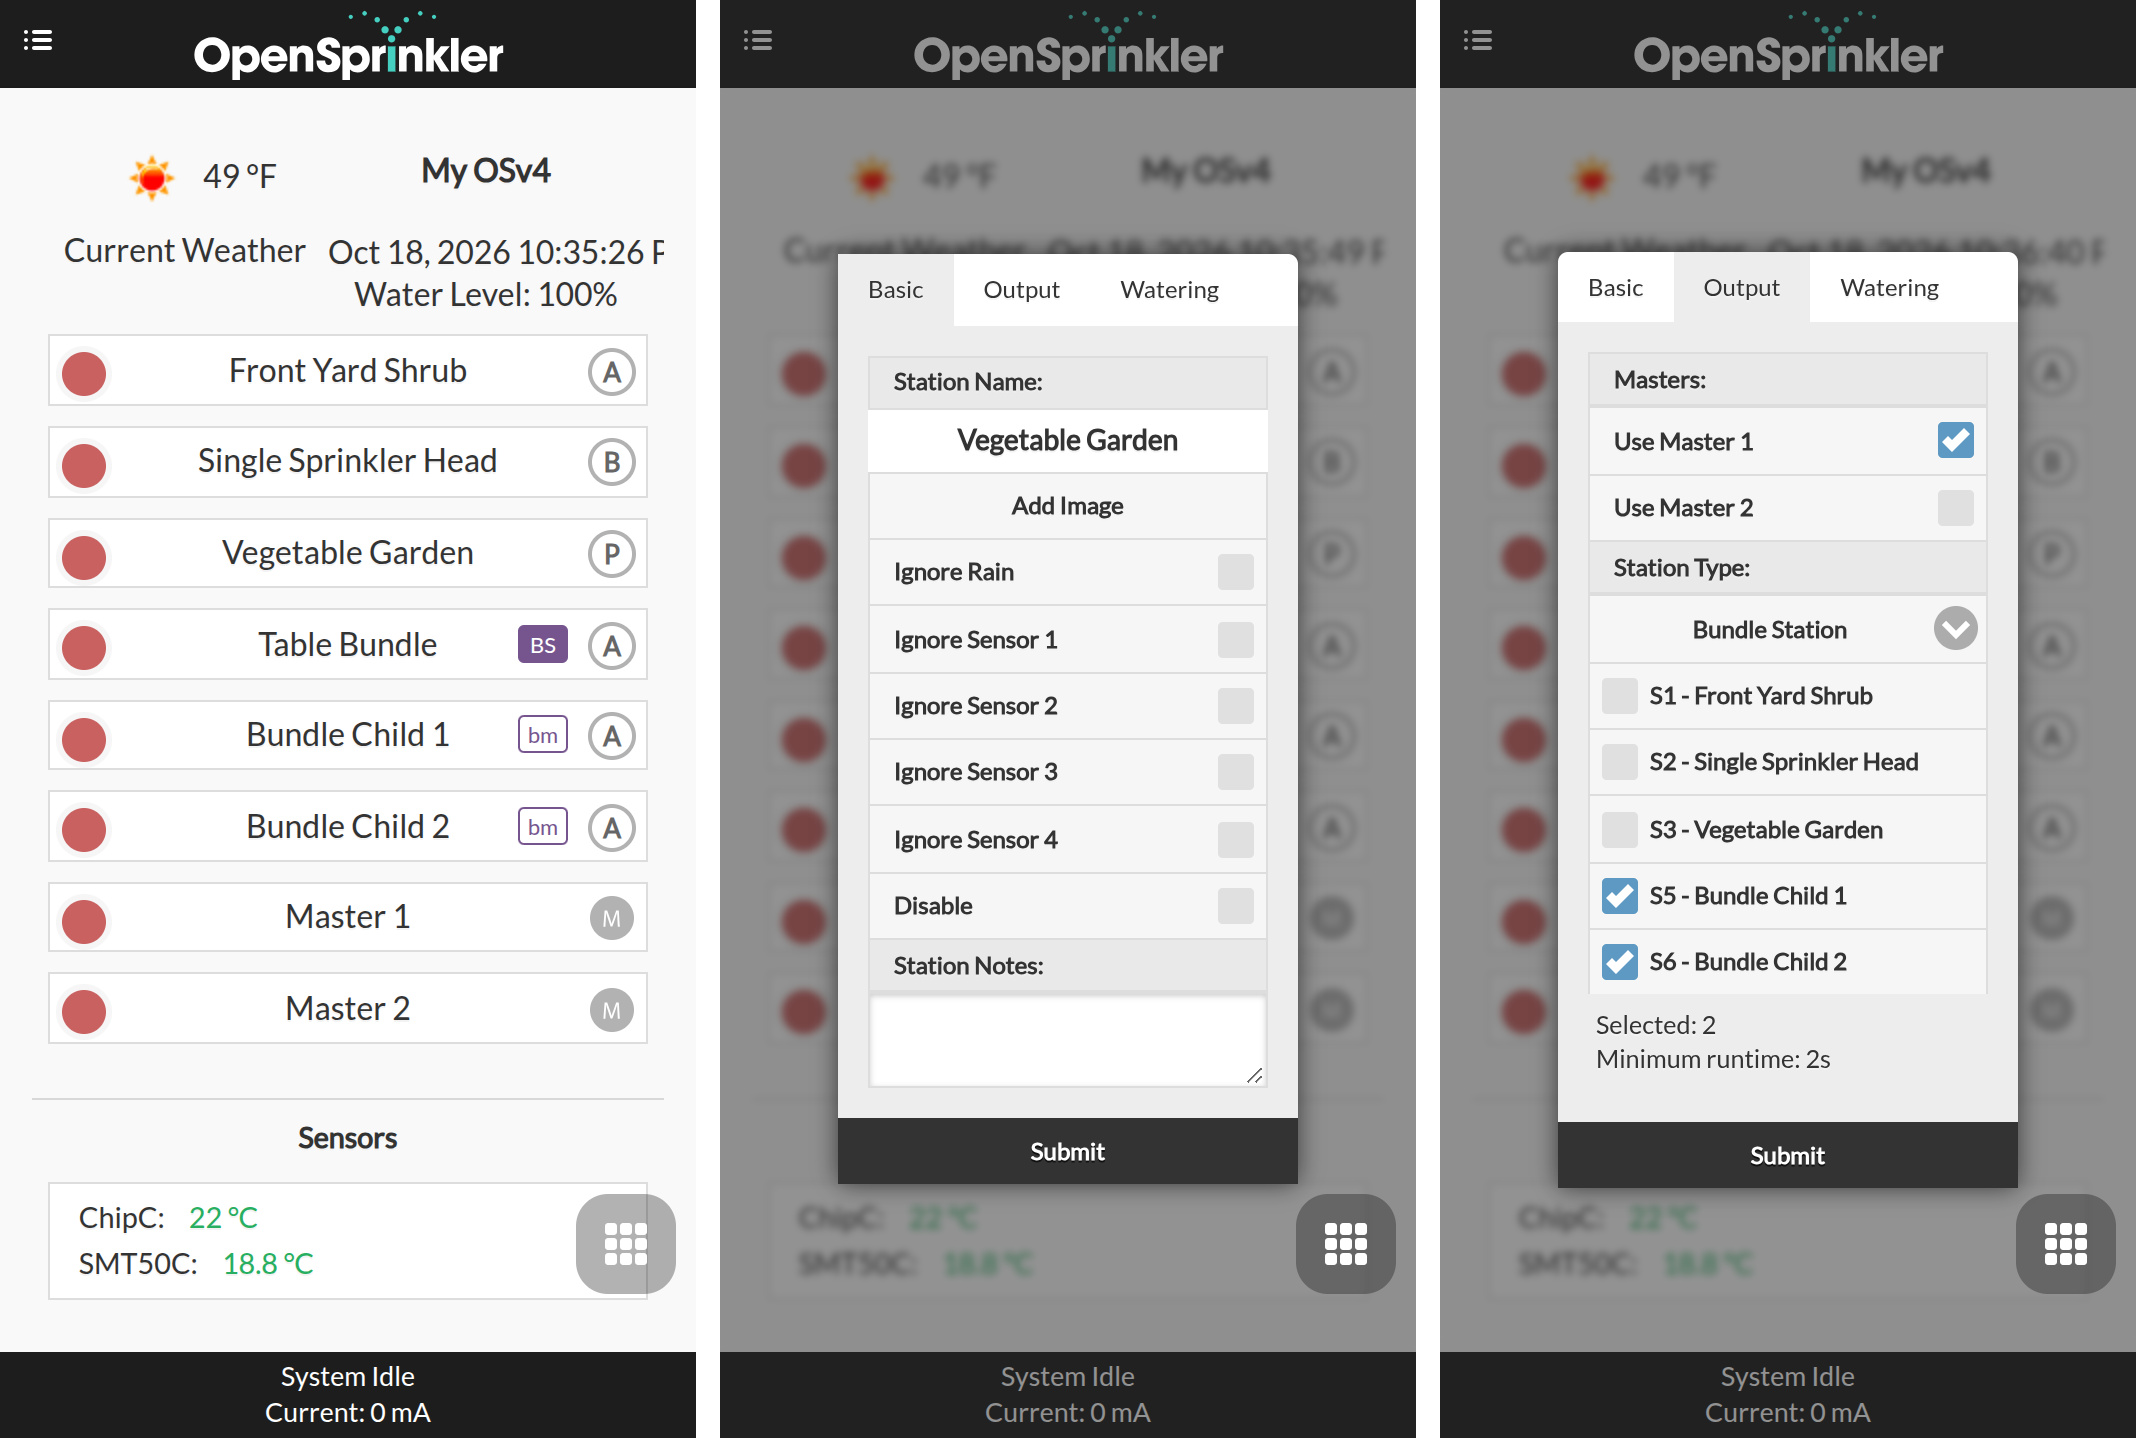
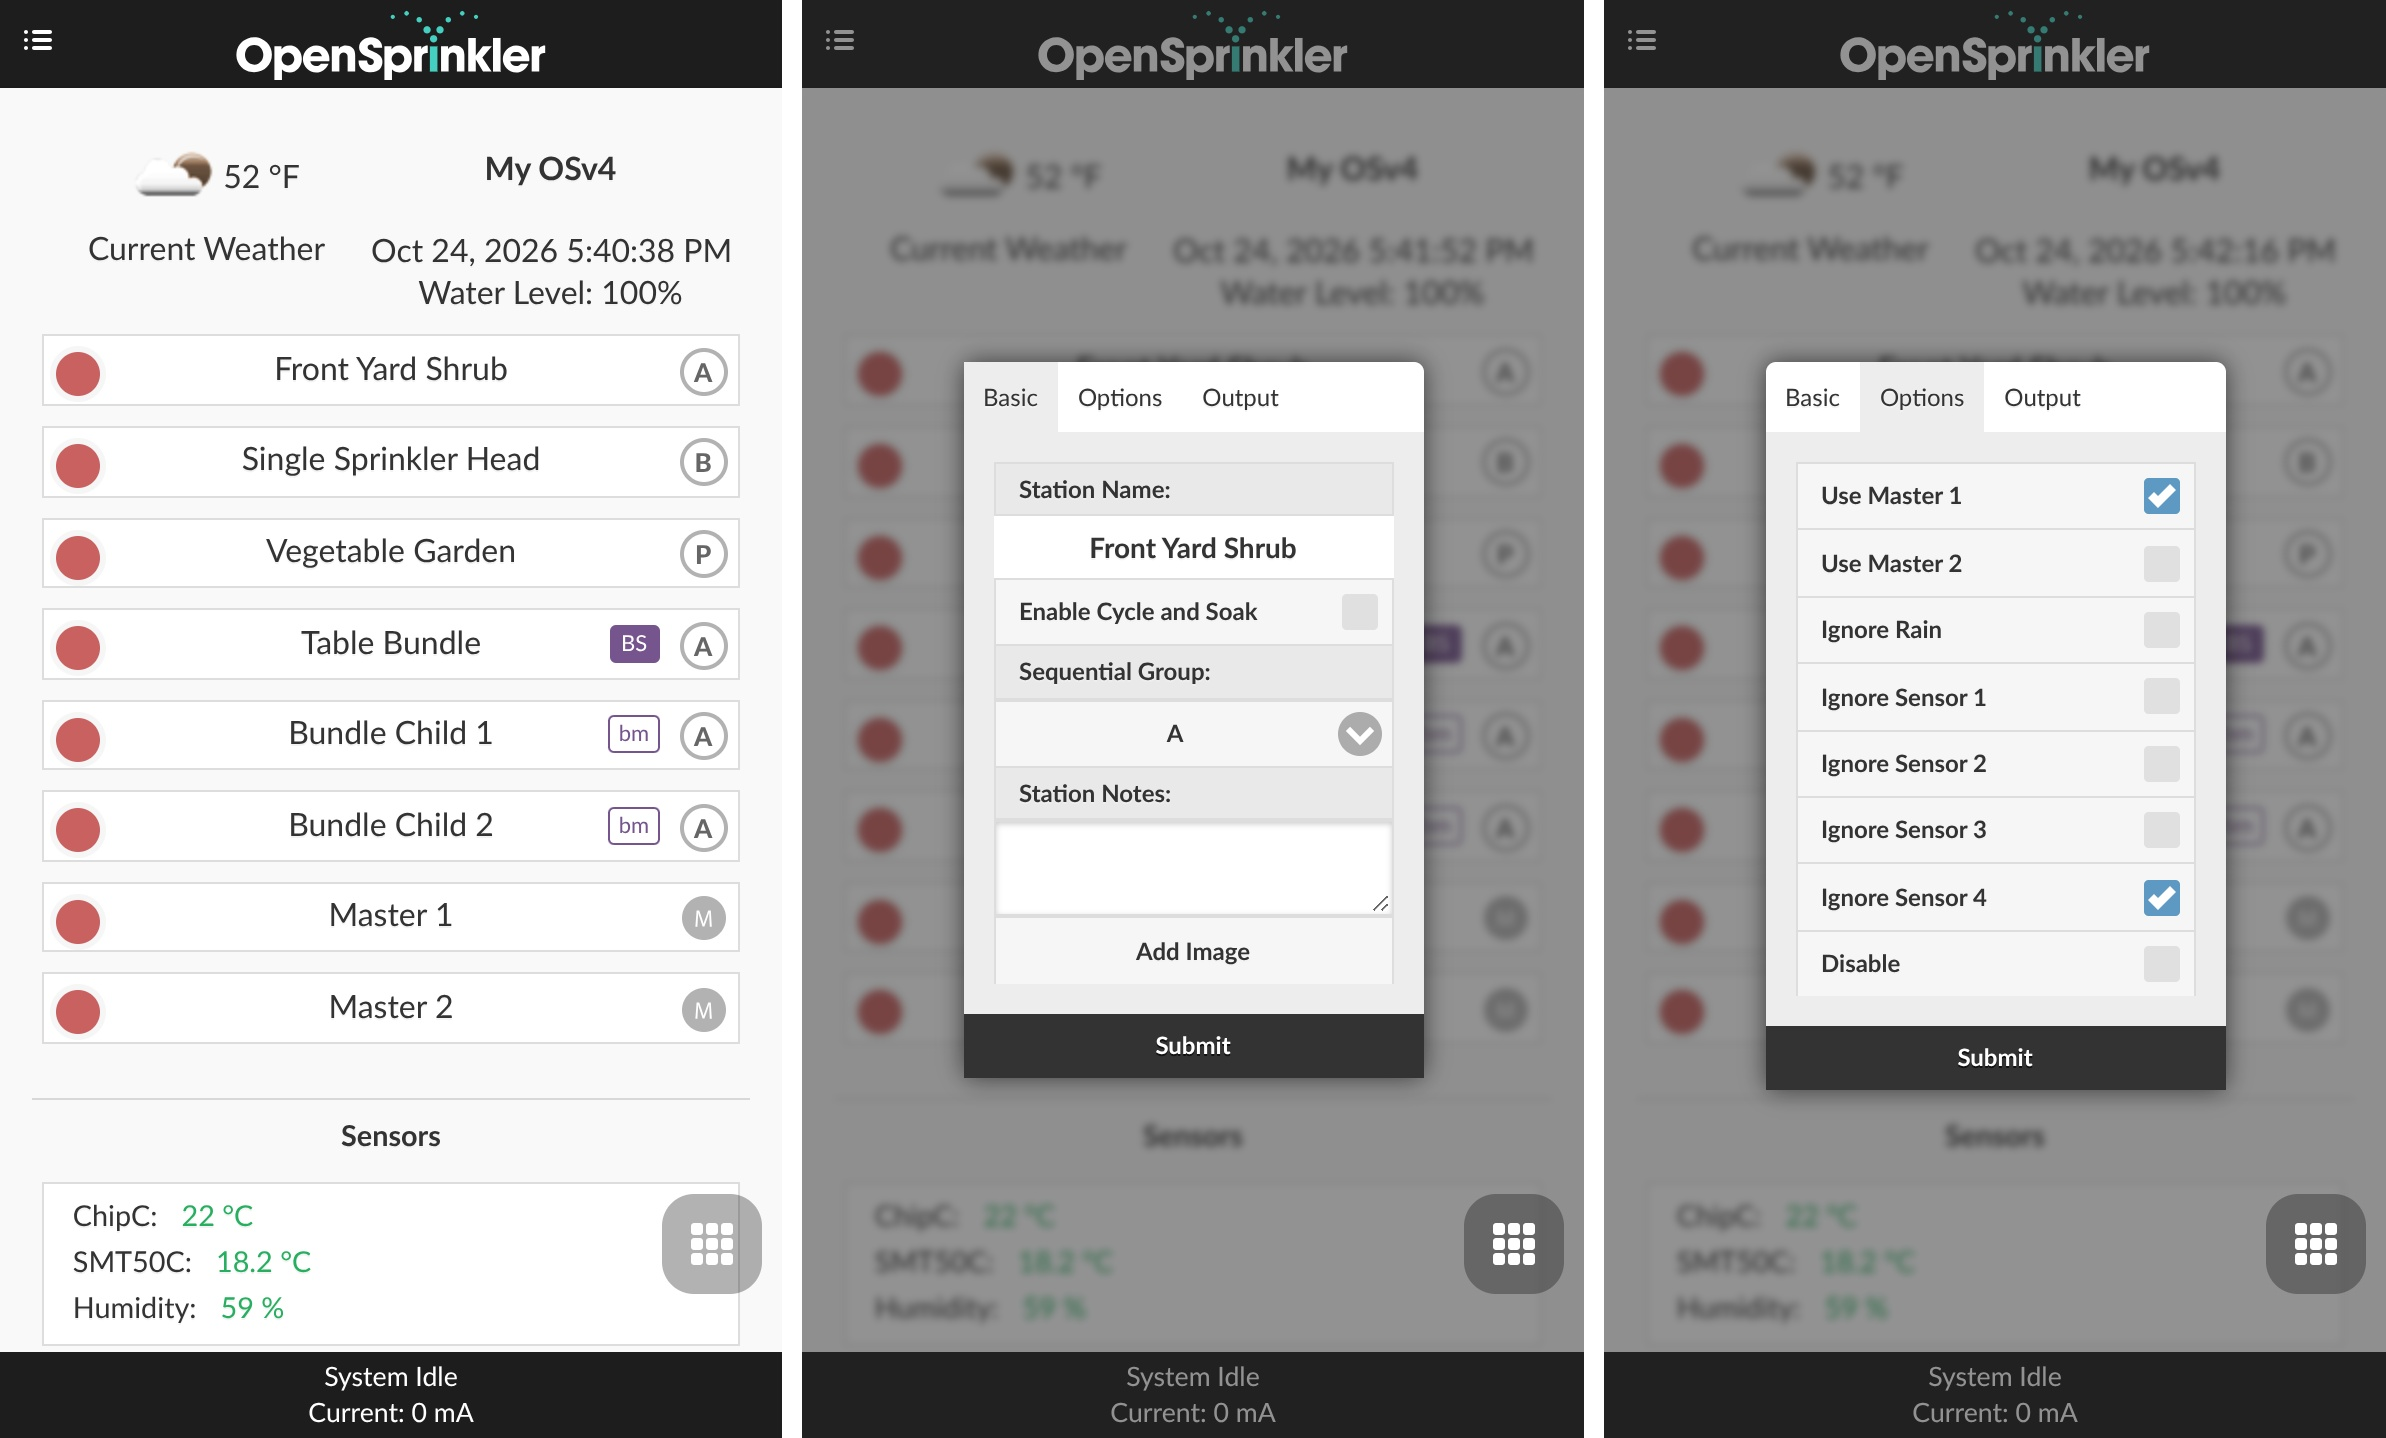
update hostname guidance and station attribute screenshots

diff --git a/docs/docs/2.2.1/221_7_manual.md b/docs/docs/2.2.1/221_7_manual.md
@@ -266,7 +266,7 @@ OpenSprinkler’s web interface works on phones, tablets, and computers, enablin
 * <span class="hl">The default device password is **opendoor**</span>. For security, change it upon first use.
 * When using the OpenSprinkler mobile app, choose **Manually Add a Device**. Type in a custom name, and enter the device IP and password.
 * Using the IP to access the controller works as long as you are on the same local network.
-* On **OpenSprinkler v3 and v4**, set a custom **hostname** under **Edit Options → Network → Hostname**, such as `garden-os`. You can then access the controller at `http://garden-os` instead of using its IP address.
+* On **OpenSprinkler v3 and v4**, set a custom **hostname** under **Edit Options → Network → Hostname**, such as `garden-os`. You can then access the controller at `http://garden-os` instead of using its IP address. Some routers require the `.lan` suffix, for example `http://garden-os.lan/`.
 
 ---
 
@@ -332,19 +332,28 @@ The footer may also display:
 
 Each zone (station) is shown as a card. Tap the circular icon showing the station's sequential group next to its name to open its **Attributes** dialog.
 
-![Station cards and the Basic and Output attribute tabs](images/station_attributes_types_2217.jpg){: .img-shadow}
+![Station cards and the Basic and Options attribute tabs](images/station_attributes_types_2217.jpg){: .img-shadow}
 
 **Basic Tab:**
 
 * **Station Name:** A custom name (up to 32 characters).<br>
 **Annotation:** If a flow sensor is enabled (see [Sensor Setup](#built-in-sensors)) and the last 5 characters represent a numerical value, a **Flow Alert** notification will trigger when the flow rate exceeds this value after the zone finishes. Example: station name is **Front Yard 1.357**, a flow alert will trigger if the flow rate `>1.357` after the zone finishes.
+* **Cycle and Soak:** Enable cycling and set the **Maximum cycle** and **Minimum soak**, in minutes. See [Cycle and Soak](#cycle-and-soak) below.
+* **Sequential Group:** Assign the zone to a **Sequential** group (`A-D`) or the **Parallel** (`P`) group. The zone's group label appears next to its name on the homepage.
+    * By default, all zones belong to **group A**.
+    * Zones in the same sequential group run in sequence; zones in different groups can run simultaneously.
+    * Parallel (P) zones can run alongside any other zones.
+* **Station Notes & Image:** Add station notes and a photo (see [Cloud-Synced Features](#cloud-synced-features)).
+
+**Options Tab:**
+
+* **Use Masters:** Select which configured Masters should activate when this zone runs. If Master 1 is configured, Use Master 1 is checked by default; additional masters are unchecked by default.
+* **Activate Relay:** Activate the controller's relay when this zone runs (if supported).
 * **Ignore Rain/SN1-SN4:** Each option lets the zone bypass rain delay or the corresponding built-in sensor. Unchecked by default. (*SN3/SN4 are available only on OpenSprinkler v3.4 and v4*).
 * **Disable:** Disable and hide this zone. To unhide, use the [Footer Menu](#footer-menu).
-* **Image & Notes:** Add a station photo and notes (see [Cloud-Synced Features](#cloud-synced-features)).
 
 **Output Tab:**
 
-* **Use Masters:** Select which configured Masters should activate when this zone runs. If Master 1 is configured, Use Master 1 is checked by default; additional masters are unchecked by default.
 * <span id="station-type"></span>**Station Type:** Configure special properties for a zone.
     * <span class="hllight">**Standard**</span> (default): Regular sprinkler zone.
     * <span class="hllight">**RF:**</span> Controls remote RF (Radio Frequency) power sockets via an external transmitter (requires [RFToy](https://opensprinkler.com/product/rftoy/) for code learning), allowing you to switch powerline devices such as Christmas lights, heaters, pumps.
@@ -367,17 +376,11 @@ Each zone (station) is shown as a card. Tap the circular icon showing the statio
     * **SP:** Fallback for an unrecognized special-station type
     * **No badge:** Standard station (neither a special station nor a bundle member)
 
-**Watering Tab:**
-
-* **Sequential Group:** Assign the zone to a **Sequential** group (`A-D`) or the **Parallel** (`P`) group. The zone's group label appears next to its name on the homepage.
-    * By default, all zones belong to **group A**.
-    * Zones in the same sequential group run in sequence; zones in different groups can run simultaneously.
-    * Parallel (P) zones can run alongside any other zones.
-* **Cycle and Soak:** Enable cycling and set the **Maximum cycle** and **Minimum soak**, in minutes. See [Cycle and Soak](#cycle-and-soak) below.
-
 <hr>
 
 #### Bundle Stations
+
+![Bundle Station configuration in the Output tab](images/bundle_station_2217.jpg){ .img-center .img-shadow width="250" }
 
 A **Bundle Station** behaves like several physical zone wires bundled together into one logical zone. Starting the bundle leader activates its own output and every selected member in its configuration.
 
@@ -396,9 +399,9 @@ To reduce simultaneous solenoid inrush current, new physical outputs are activat
 
 #### Cycle and Soak {: .hltitle}
 
-![Cycle and Soak settings in the Watering tab and circular-arrow indicators on station cards](images/cycle_and_soak_2217.jpg){ .img-center .img-shadow .img-two-thirds }
+![Cycle and Soak settings in the Basic tab and circular-arrow indicators on station cards](images/cycle_and_soak_2217.jpg){ .img-center .img-shadow .img-two-thirds }
 
-**Cycle and Soak** splits a zone's water time into balanced cycles, each no longer than its **Maximum cycle**, separated by at least its **Minimum soak**. For example, 17 minutes total with a 5-minute maximum cycle becomes 4 cycles, each 4 minutes 15 seconds. Both settings accept **1–240 minutes**. You can enable it for each station individually via its **Watering** tab. Enabled zones show a circular arrow around their group indicator on the homepage (see the right image above).
+**Cycle and Soak** splits a zone's water time into balanced cycles, each no longer than its **Maximum cycle**, separated by at least its **Minimum soak**. For example, 17 minutes total with a 5-minute maximum cycle becomes 4 cycles, each 4 minutes 15 seconds. Both settings accept **1–240 minutes**. You can enable it for each station individually via its **Basic** tab. Enabled zones show a circular arrow around their group indicator on the homepage (see the right image above).
 
 
 * Other zones can run during a soak. Scheduling may make the gap longer than the minimum.
@@ -641,7 +644,7 @@ All supported controllers provide two independent built-in sensor ports (`SN1/SN
 
 * **HTTP Port:** Change the device's HTTP port. Changing the port requires a restart. Default: `80` on OpenSprinkler v3 and v4, and `8080` on OSPi.
     * On OpenSprinkler v3 and v4, do **NOT** use `8080` as it's reserved for OTA firmware update.
-* **Hostname (v3/v4):** Set an easy-to-remember network name, such as `garden-os`, to access the controller at `http://garden-os`. Use up to 32 letters, digits, or hyphens, with no leading or trailing hyphen or all-numeric name. Leave empty to restore the default `os-xxxxxx`, where `xxxxxx` is the last six hexadecimal digits of the controller's Wi-Fi MAC address. A restart is required.
+* **Hostname (v3/v4):** Set an easy-to-remember network name, such as `garden-os`, to access the controller at `http://garden-os` (some routers require `http://garden-os.lan/`). Enter only the hostname, without `.lan`. Use up to 32 letters, digits, or hyphens, with no leading or trailing hyphen or all-numeric name. Leave empty to restore the default `os-xxxxxx`, where `xxxxxx` is the last six hexadecimal digits of the controller's Wi-Fi MAC address. A restart is required.
 * **Use DHCP:** Automatically obtains IP from your router using DHCP. Changing this option requires a restart.
     * **Recommend keeping this option enabled**.
     * If **fixed IP assignment** is preferred, use your router’s **DHCP reservation** (IP-to-Mac binding). Disable DHCP only if your router doesn't support DHCP reservation.

diff --git a/docs/docs/2.2.1/221_7_api.md b/docs/docs/2.2.1/221_7_api.md
@@ -5,7 +5,7 @@
 ### Overview
 
 * **Authentication** (`pw`): All API calls require the device password via the `pw` parameter. The value must be provided as a lowercase MD5 hash. The OpenSprinkler app and web interfaces handle this hashing automatically. If you are making direct API calls, you must hash your plaintext password before sending the request. You can use any standard [MD5 generation tool](https://www.md5hashgenerator.com/) for this.
-* **Device IP**: Throughout this document, `os-ip` denotes the controller's IP address or hostname.
+* **Device IP**: Throughout this document, `os-ip` denotes the controller's IP address or hostname. Some routers require a `.lan` suffix, for example `http://garden-os.lan/`. Do not include this suffix in the `hname` setting.
 * **Command Parameters**: Parameters can be sent in any order. You do NOT need to include every parameter in a request - any omitted parameter will retain its current value on the device.
 * **Return values** are all formatted in JSON, for example: `{"fwv":221}`, `{"result":1}`. An error response may also include an `item` field identifying the offending parameter, for example: `{"result":17,"item":"sn1t"}` when the integer sensor-type option `sn1t` is set to an out-of-range value such as `256`. This field may be absent or empty when no specific parameter is identified. Below is the list of error codes:
 

diff --git a/docs/docs/faq.md b/docs/docs/faq.md
@@ -293,7 +293,7 @@ Typically you connect the controller to a router (WiFi or Ethernet). However, wi
 
 **Q: How do I access OpenSprinkler?**
 <br>
-OpenSprinkler has a built-in web interface that works with any modern desktop or mobile browser. Simply type the controller's IP address into your browser. On v3/v4, you can also use a hostname configured under **Edit Options → Network → Hostname**, such as `http://garden-os`. We also provide a free OpenSprinkler mobile app (for iOS, Android, and macOS).
+OpenSprinkler has a built-in web interface that works with any modern desktop or mobile browser. Simply type the controller's IP address into your browser. On v3/v4, you can also use a hostname configured under **Edit Options → Network → Hostname**, such as `http://garden-os` (some routers require `http://garden-os.lan/`). We also provide a free OpenSprinkler mobile app (for iOS, Android, and macOS).
 
 For remote access, configure an **OTC (OpenThings Cloud)** token in the settings.
 
